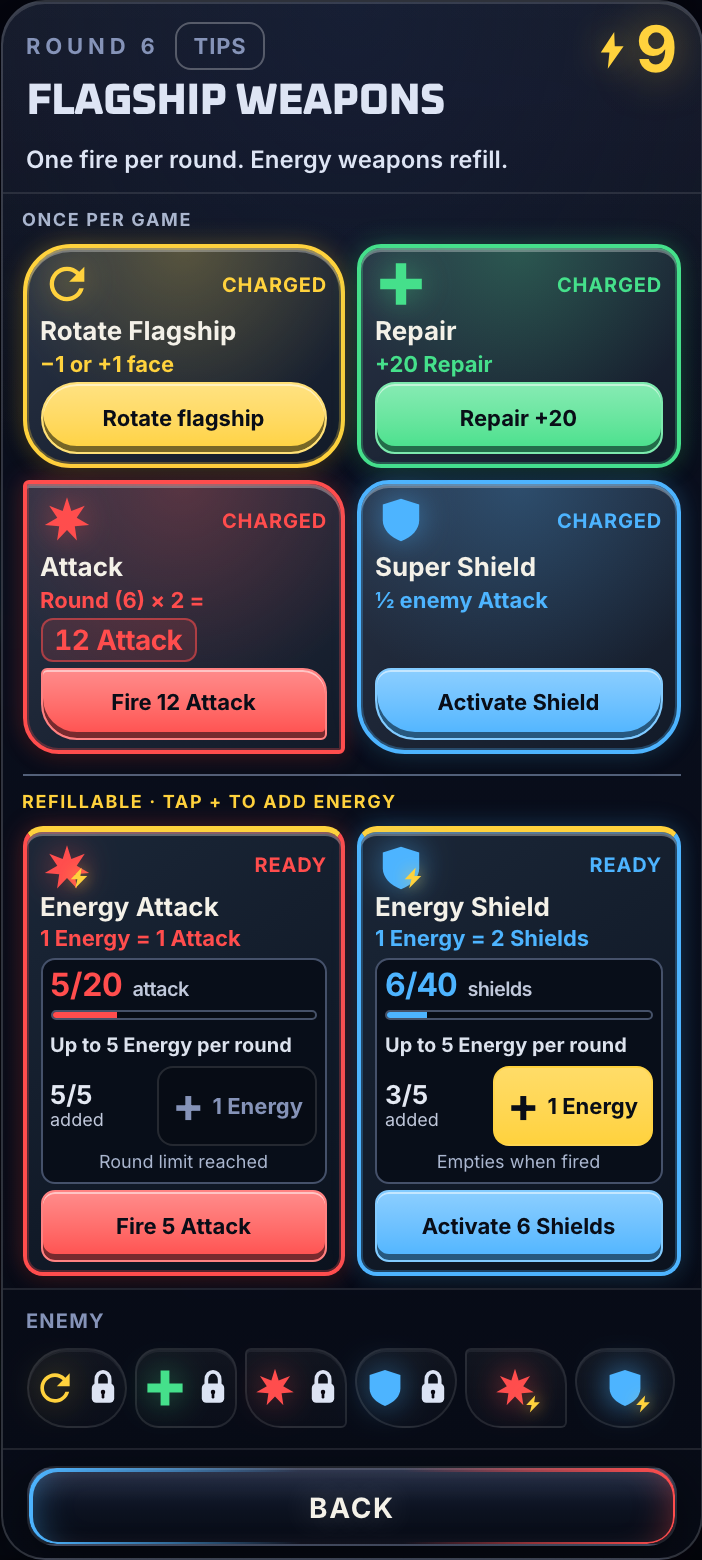
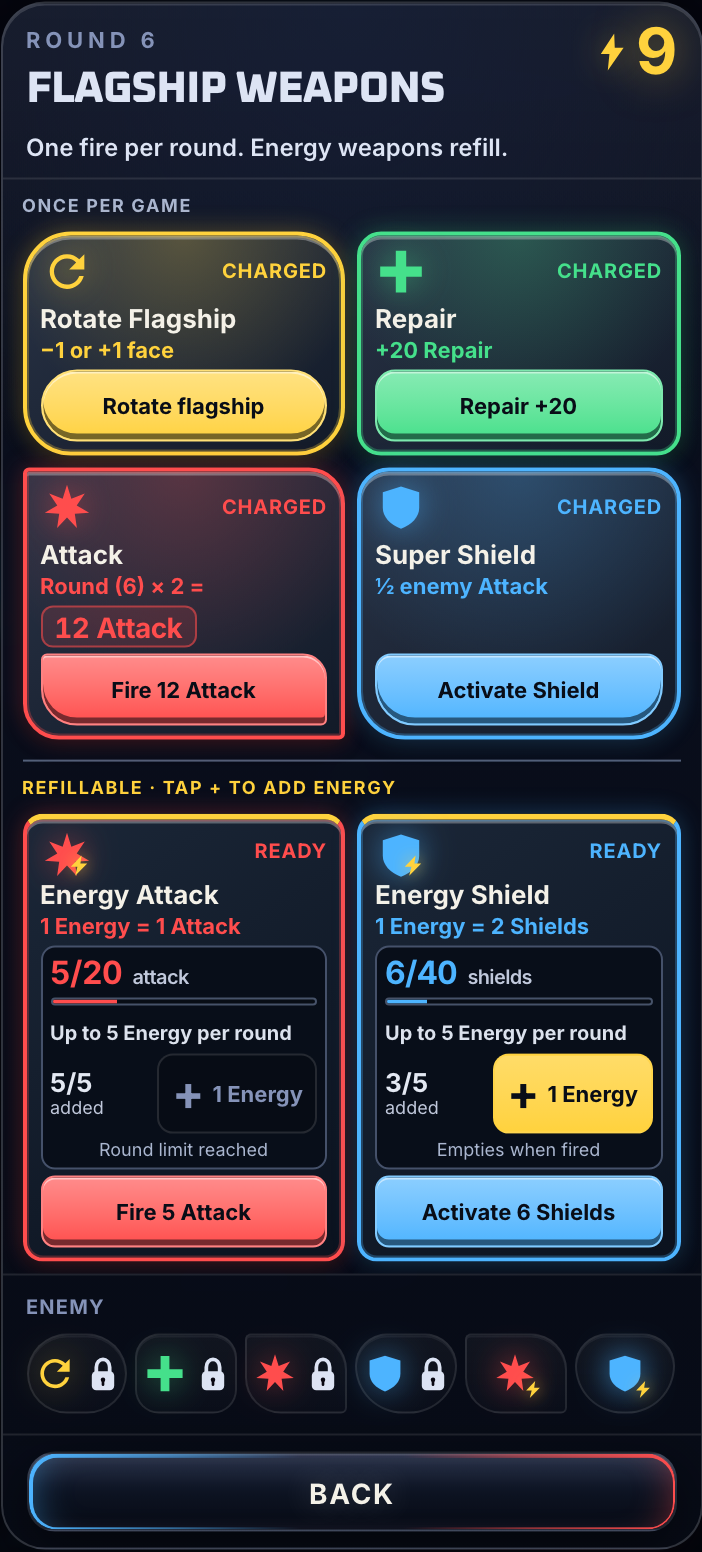
Explain flagship weapons with tile tooltips

diff --git a/components/FlagshipWeapons.tsx b/components/FlagshipWeapons.tsx
@@ -1,6 +1,6 @@
 "use client";
 
-import { Fragment, useEffect, useRef, useState } from "react";
+import { Fragment, useEffect, useLayoutEffect, useRef, useState } from "react";
 import { createPortal } from "react-dom";
 import {
   TUNING, FLAG_FACES, WEAPON_GRID_IDS, WEAPON_IDS, WEAPON_NAMES, weaponAttack, weaponChargeCostOf,
@@ -10,6 +10,7 @@ import {
 } from "@/lib/engine";
 import { EnergyBank, EnergyPrice } from "./ui";
 import { StatIcon } from "./StatIcon";
+import { weaponTooltip } from "@/lib/reference";
 
 const TONE: Record<WeaponId, string> = {
   rotate: "energy",
@@ -214,26 +215,50 @@ function WeaponWindow({ player, enemy, shop, busy, onAction, onClose }: {
   onAction(action: MatchAction): void; onClose(): void;
 }) {
   const dialog = useRef<HTMLDialogElement>(null);
-  const [tips, setTips] = useState(false);
+  const [tip, setTip] = useState<WeaponId | null>(null);
+  const tooltip = useRef<HTMLDivElement>(null);
   const [rotate, setRotate] = useState(false);
   useEffect(() => {
     const el = dialog.current!;
     el.showModal();
     return () => el.close();
   }, []);
+  useLayoutEffect(() => {
+    if (!tip) return;
+    const position = () => {
+      const popup = tooltip.current;
+      const tile = dialog.current?.querySelector(`[data-weapon="${tip}"]`);
+      if (!popup || !tile || !dialog.current) return;
+      const bounds = dialog.current.getBoundingClientRect();
+      const anchor = tile.getBoundingClientRect();
+      popup.style.maxWidth = `${bounds.width - 24}px`;
+      const { width, height } = popup.getBoundingClientRect();
+      const left = Math.max(bounds.left + 12, Math.min(anchor.left + anchor.width / 2 - width / 2, bounds.right - width - 12));
+      const preferredTop = anchor.bottom + height + 8 <= bounds.bottom - 12 ? anchor.bottom + 8 : anchor.top - height - 8;
+      popup.style.left = `${left - bounds.left - dialog.current.clientLeft}px`;
+      popup.style.top = `${Math.max(bounds.top + 12, Math.min(preferredTop, bounds.bottom - height - 12)) - bounds.top - dialog.current.clientTop}px`;
+      popup.style.visibility = "visible";
+    };
+    position();
+    window.addEventListener("resize", position);
+    return () => window.removeEventListener("resize", position);
+  }, [tip]);
   const stock = weaponsOf(player);
   const used = roundWeapon(player);
   const canFire = player.phase === "rolling" && !used && !busy;
   const fire = (action: MatchAction) => { onAction(action); onClose(); };
   const turning = rotate && canFire && weaponStatus(stock, "rotate") === "available";
   return createPortal(<dialog ref={dialog} className="weapon-window" aria-labelledby="weapon-title"
-    onCancel={onClose} onClick={event => { if (event.target === event.currentTarget) onClose(); }}>
+    onCancel={event => { if (tip) { event.preventDefault(); setTip(null); } else onClose(); }}
+    onClick={event => {
+      if (event.target === event.currentTarget) onClose();
+      else if (!(event.target as Element).closest(".weapon-card")) setTip(null);
+    }}>
     <div className="weapon-window-inner">
       <header className="weapon-window-head">
         <div>
           <p className="t-eyebrow weapon-window-kicker">
             {shop ? "Shipyard" : `Round ${player.round}`}
-            <button type="button" className="weapon-tips-link" aria-expanded={tips} onClick={() => setTips(!tips)}>Tips</button>
           </p>
           <h2 id="weapon-title" className="t-display">Flagship weapons</h2>
         </div>
@@ -241,18 +266,6 @@ function WeaponWindow({ player, enemy, shop, busy, onAction, onClose }: {
         <p className="weapon-lede">One fire per round. Energy weapons refill.</p>
       </header>
       <div className="weapon-window-body">
-        {tips && <div className="weapon-tips">
-          <p>Rotate, Super Shield, Attack and Repair charge once in the shipyard for {TUNING.weaponChargeCost} Energy. Energy Attack and Energy Shield start available and empty. There is no unlock cost; press + to add Energy from your bank.</p>
-          <p>Add up to {TUNING.weaponEnergyFillPerRound} Energy per weapon each round from the bank. Store up to {weaponPowerMax("energyAttack")} Attack or {weaponPowerMax("energyShield")} Shields. Adding Energy is not firing. Firing Energy Attack or Energy Shield spends that round’s weapon and empties the store so you can fill it again.</p>
-          <p>Both players can see charged and used weapons. Stored Energy and your activation stay hidden until both lock in.</p>
-          <p><b>Rotate:</b> turn your flagship −1 or +1 after rolling. It can complete a straight or change your bonus.</p>
-          <p><b>Super Shield:</b> halve enemy Attack before your Shields and blocking ships. An odd total rounds up after halving. Direct and War still follow their usual rules.</p>
-          <p><b>Attack:</b> add Round (the current round) × {TUNING.weaponAttackPerRound} Attack. Waiting makes it stronger; enemy defenses still apply.</p>
-          <p><b>Repair:</b> add {TUNING.weaponRepair} health alongside this volley’s damage. It can save your flagship and raise your health above its previous high.</p>
-          <p><b>Energy Attack:</b> each stored Energy becomes 1 Attack when fired.</p>
-          <p><b>Energy Shield:</b> each stored Energy becomes {TUNING.weaponEnergyShieldPerEnergy} Shields when fired, up to {weaponPowerMax("energyShield")} Shields. Shields stop Attack; they do not stop Direct or War.</p>
-          <p>Opening this window or pressing Back spends nothing. Pressing +1 spends 1 Energy into that store. Pressing Use, or a rotation direction, fires that weapon immediately.</p>
-        </div>}
         <div className="weapon-stage">
         {turning ? (
           <div className="weapon-rotate-controls">
@@ -288,10 +301,23 @@ function WeaponWindow({ player, enemy, shop, busy, onAction, onClose }: {
             return <Fragment key={id}>
               {id === "rotate" && <p className="weapon-group-label">Once per game</p>}
               {id === "energyAttack" && <p className="weapon-group-label weapon-group-energy"><span>Refillable · tap + to add Energy</span></p>}
-              <section className={`weapon-card weapon-${id} weapon-card-${appearance}${energy ? " weapon-card-energy" : ""}`}>
+              <section data-weapon={id} className={`weapon-card weapon-${id} weapon-card-${appearance}${energy ? " weapon-card-energy" : ""}`}
+                onClick={event => {
+                  if ((event.target as Element).closest("button")) setTip(null);
+                  else setTip(current => current === id ? null : id);
+                }}>
+              <div className="weapon-card-info" role="button" tabIndex={0}
+                aria-label={`About ${WEAPON_NAMES[id]}`} aria-expanded={tip === id}
+                aria-describedby={tip === id ? `weapon-tip-${id}` : undefined}
+                onKeyDown={event => {
+                  if (event.key === "Enter" || event.key === " ") {
+                    event.preventDefault(); setTip(current => current === id ? null : id);
+                  }
+                }}>
               <div className="weapon-card-top"><WeaponIcon id={id} /><span className="weapon-state">{energy ? stored > 0 ? "Ready" : "Empty" : status === "available" ? "Charged" : status === "locked" ? "Uncharged" : STATE[status]}</span></div>
               <h3>{WEAPON_NAMES[id]}</h3>
               <WeaponEffectLine id={id} round={player.round} stored={stored} />
+              </div>
               {energy && (
                 <div className="weapon-energy-store">
                   <p className="weapon-energy-count t-num">{power}/{powerMax}<small> {id === "energyShield" ? "shields" : "attack"}</small></p>
@@ -328,5 +354,9 @@ function WeaponWindow({ player, enemy, shop, busy, onAction, onClose }: {
       {enemy && <EnemyWeaponRow stock={weaponsOf(enemy)} name={enemy.name} />}
       <footer><button type="button" className="btn btn-primary w-full" onClick={onClose}>Back</button></footer>
     </div>
+    {tip && <div ref={tooltip} id={`weapon-tip-${tip}`} role="tooltip" aria-label={WEAPON_NAMES[tip]}
+      className={`weapon-tooltip weapon-${tip}`}>
+      <b>{WEAPON_NAMES[tip]}</b><p>{weaponTooltip(tip)}</p>
+    </div>}
   </dialog>, document.body);
 }

diff --git a/app/globals.css b/app/globals.css
@@ -148,23 +148,12 @@
 .weapon-window-head > div:first-child { min-width: 0; }
 .weapon-window-head h2 { font-size: 22px; line-height: 1.15; margin-top: 4px; }
 .weapon-window-kicker { display: flex; align-items: center; gap: 8px; }
-.weapon-tips-link {
-  border: 1px solid rgb(255 255 255 / 0.28);
-  border-radius: 8px;
-  padding: 2px 8px;
-  min-height: 24px;
-  font: 700 11px var(--font-body);
-  letter-spacing: 0.04em;
-  text-transform: uppercase;
-  background: transparent;
-  color: inherit;
-  cursor: pointer;
-}
 .weapon-lede { flex: 1 0 100%; font-size: 12px; font-weight: 600; line-height: 1.3; margin: 0; color: var(--color-hull-100, #e3e8f2); white-space: normal; }
 .weapon-lede b { font-weight: 800; }
 .weapon-small-button { border: 1px solid rgb(255 255 255 / 0.28); border-radius: 8px; padding: 8px 10px; min-height: 36px; cursor: pointer; font-weight: 700; background: transparent; color: inherit; flex-shrink: 0; }
 .weapon-window-body { position: relative; flex: 0 0 auto; min-height: 0; overflow: hidden; padding: 6px 10px; }
 .weapon-stage { position: relative; }
+.weapon-card-info { display: flex; flex-direction: column; gap: inherit; cursor: pointer; border-radius: 4px; }
 .weapon-card-grid { display: grid; grid-template-columns: repeat(2, minmax(0, 1fr)); gap: 6px; }
 .weapon-card { --weapon-color: var(--color-energy); position: relative; display: flex; flex-direction: column; gap: 3px; min-width: 0; padding: 6px; border: 1px solid rgb(255 255 255 / 0.1); border-radius: 12px; background: linear-gradient(180deg, rgb(255 255 255 / 0.05), rgb(255 255 255 / 0.012)); box-shadow: inset 0 1px 0 rgb(255 255 255 / 0.07); }
 .weapon-shield, .weapon-energyShield { --weapon-color: var(--color-shield); }
@@ -326,23 +315,22 @@
 }
 .weapon-window footer { flex-shrink: 0; padding: 8px 12px; border-top: 1px solid rgb(255 255 255 / 0.1); }
 .weapon-window footer .btn { min-height: 40px; padding: 7px 12px; font-size: 14px; }
-.weapon-tips {
+.weapon-tooltip {
   position: absolute;
-  inset: 8px;
-  z-index: 2;
-  overflow: auto;
-  display: grid;
-  gap: 8px;
+  visibility: hidden;
+  z-index: 5;
+  width: 280px;
   font-size: 13px;
   line-height: 1.45;
-  margin: 0;
-  padding: 10px;
-  border: 1px solid rgb(255 255 255 / 0.12);
-  border-radius: 12px;
-  background: rgb(7 11 22 / 0.96);
+  padding: 12px 14px;
+  border: 1px solid var(--weapon-color);
+  border-radius: 10px;
+  color: #e3e8f2;
+  background: #0b1220;
   box-shadow: 0 12px 32px rgb(0 0 0 / 0.45);
 }
-.weapon-tips b { color: var(--color-primary, #f4f1e8); }
+.weapon-tooltip b { display: block; margin-bottom: 4px; color: var(--weapon-color); }
+.weapon-tooltip p { margin: 0; }
 .weapon-rotate-controls {
   margin: 0;
   display: grid;
@@ -416,14 +404,13 @@
 .weapon-status-used > span:first-child { color: var(--color-hull-300, #8996b2); }
 .weapon-report { display: grid; gap: 6px; font-size: 13px; margin-top: 12px; }
 .weapon-report summary { cursor: pointer; color: var(--color-hull-200, #c0c8db); }
-.weapon-window button:focus-visible, .weapon-launcher:focus-visible { outline: 2px solid white; outline-offset: 3px; }
+.weapon-window button:focus-visible, .weapon-card-info:focus-visible, .weapon-launcher:focus-visible { outline: 2px solid white; outline-offset: 3px; }
 @media (max-height: 700px) {
   .weapon-window { max-height: calc(100dvh - 16px); }
   .weapon-window-inner { max-height: calc(100dvh - 16px); }
   .weapon-window-head { padding: 5px 8px 3px; gap: 3px; }
   .weapon-window-head h2 { font-size: 20px; margin-top: 0; }
   .weapon-window-kicker { line-height: 1; }
-  .weapon-tips-link { min-height: 20px; }
   .weapon-window .weapon-attack .weapon-effect { flex-direction: row; align-items: center; flex-wrap: wrap; gap: 3px; }
   .weapon-window .weapon-effect-eq { font-size: 9px; }
   .weapon-group-energy { margin-top: 0; padding-top: 3px; }

diff --git a/lib/reference.ts b/lib/reference.ts
@@ -29,10 +29,25 @@ import {
   FLAG_FACES,
   weaponAttack,
   WEAPON_NAMES,
+  weaponPower,
+  type WeaponId,
   type DieSize,
   type FaceRow,
   type PlayerState,
 } from "@/lib/engine";
+
+/** Short explanations shared by the shipyard and battle weapon tiles. */
+export function weaponTooltip(id: WeaponId): string {
+  const charge = `Charge for ${TUNING.weaponChargeCost} Energy; use once per game.`;
+  switch (id) {
+    case "rotate": return `Turn your flagship −1 or +1 after rolling, wrapping around at either end. ${charge}`;
+    case "repair": return `Add ${TUNING.weaponRepair} health when damage resolves, even above your previous high. ${charge}`;
+    case "attack": return `Add the round number × ${TUNING.weaponAttackPerRound} Attack. Enemy defenses still apply. ${charge}`;
+    case "shield": return `Halve enemy Attack before Shields and blocking. Does not reduce Direct or War. ${charge}`;
+    case "energyAttack": return `No unlock cost. Tap +: 1 Energy gives ${weaponPower(1, id)} Attack, up to ${TUNING.weaponEnergyFillPerRound} Energy per round. Fire stored Attack to empty the store.`;
+    case "energyShield": return `No unlock cost. Tap +: 1 Energy gives ${weaponPower(1, id)} Shields, up to ${TUNING.weaponEnergyFillPerRound} Energy per round. Activate stored Shields to empty the store. Does not stop Direct or War.`;
+  }
+}
 
 /* ------------------------------------------------------------------ */
 /* Reading the engine                                                  */
